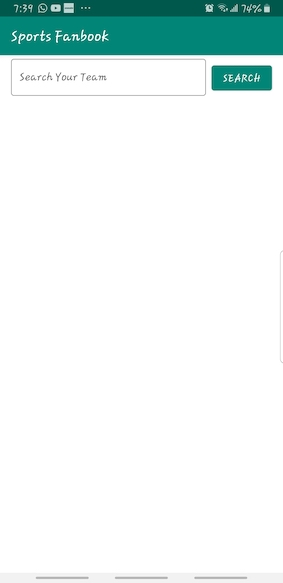
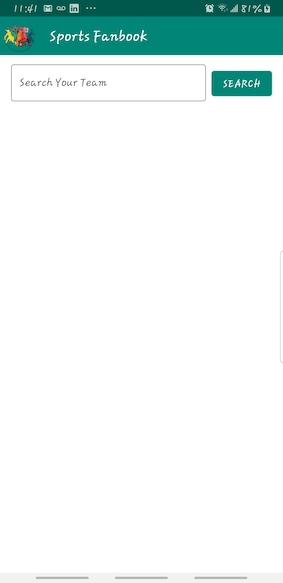
Replaced actionbar with AppCompatToolbar for better UI in dark mode. And added images for preview in Github repo.

Changed region(s): [[0.0, 0.0, 0.9611, 0.1852], [0.7067, 0.0, 0.9611, 0.0309]]

diff --git a/app/src/main/java/com/yourself/sportsfanbook/ui/MainActivity.kt b/app/src/main/java/com/yourself/sportsfanbook/ui/MainActivity.kt
@@ -3,6 +3,7 @@ package com.yourself.sportsfanbook.ui
 import android.os.Bundle
 import android.view.MenuItem
 import androidx.appcompat.app.AppCompatActivity
+import androidx.appcompat.widget.Toolbar
 import androidx.lifecycle.Observer
 import androidx.lifecycle.ViewModelProvider
 import com.google.android.gms.ads.AdRequest
@@ -19,11 +20,14 @@ import kotlinx.android.synthetic.main.activity_main.*
 
 class MainActivity : AppCompatActivity(), ActionBarCallBack, FavouriteItemClickListener {
 
+    private lateinit var toolbar: Toolbar
     override fun onCreate(savedInstanceState: Bundle?) {
         super.onCreate(savedInstanceState)
         setContentView(R.layout.activity_main)
 
-        supportActionBar?.setLogo(R.mipmap.ic_launcher)
+        toolbar = findViewById<Toolbar>(R.id.toolbar)
+        setSupportActionBar(toolbar)
+
         if (savedInstanceState == null)
             supportFragmentManager.beginTransaction().add(
                 R.id.container,
@@ -61,8 +65,12 @@ class MainActivity : AppCompatActivity(), ActionBarCallBack, FavouriteItemClickL
     }
 
     override fun showHideActionBarWith(title: String?, showBackButton: Boolean) {
-        supportActionBar?.title = title
-        supportActionBar?.setDisplayHomeAsUpEnabled(showBackButton)
+        toolbar.title = title
+        if(showBackButton) {
+            toolbar.setNavigationIcon(R.drawable.abc_ic_ab_back_material)
+        }else{
+            toolbar.setNavigationIcon(R.mipmap.app_icon)
+        }
     }
 
     override fun onFavouriteItemClick(team: Team) {
